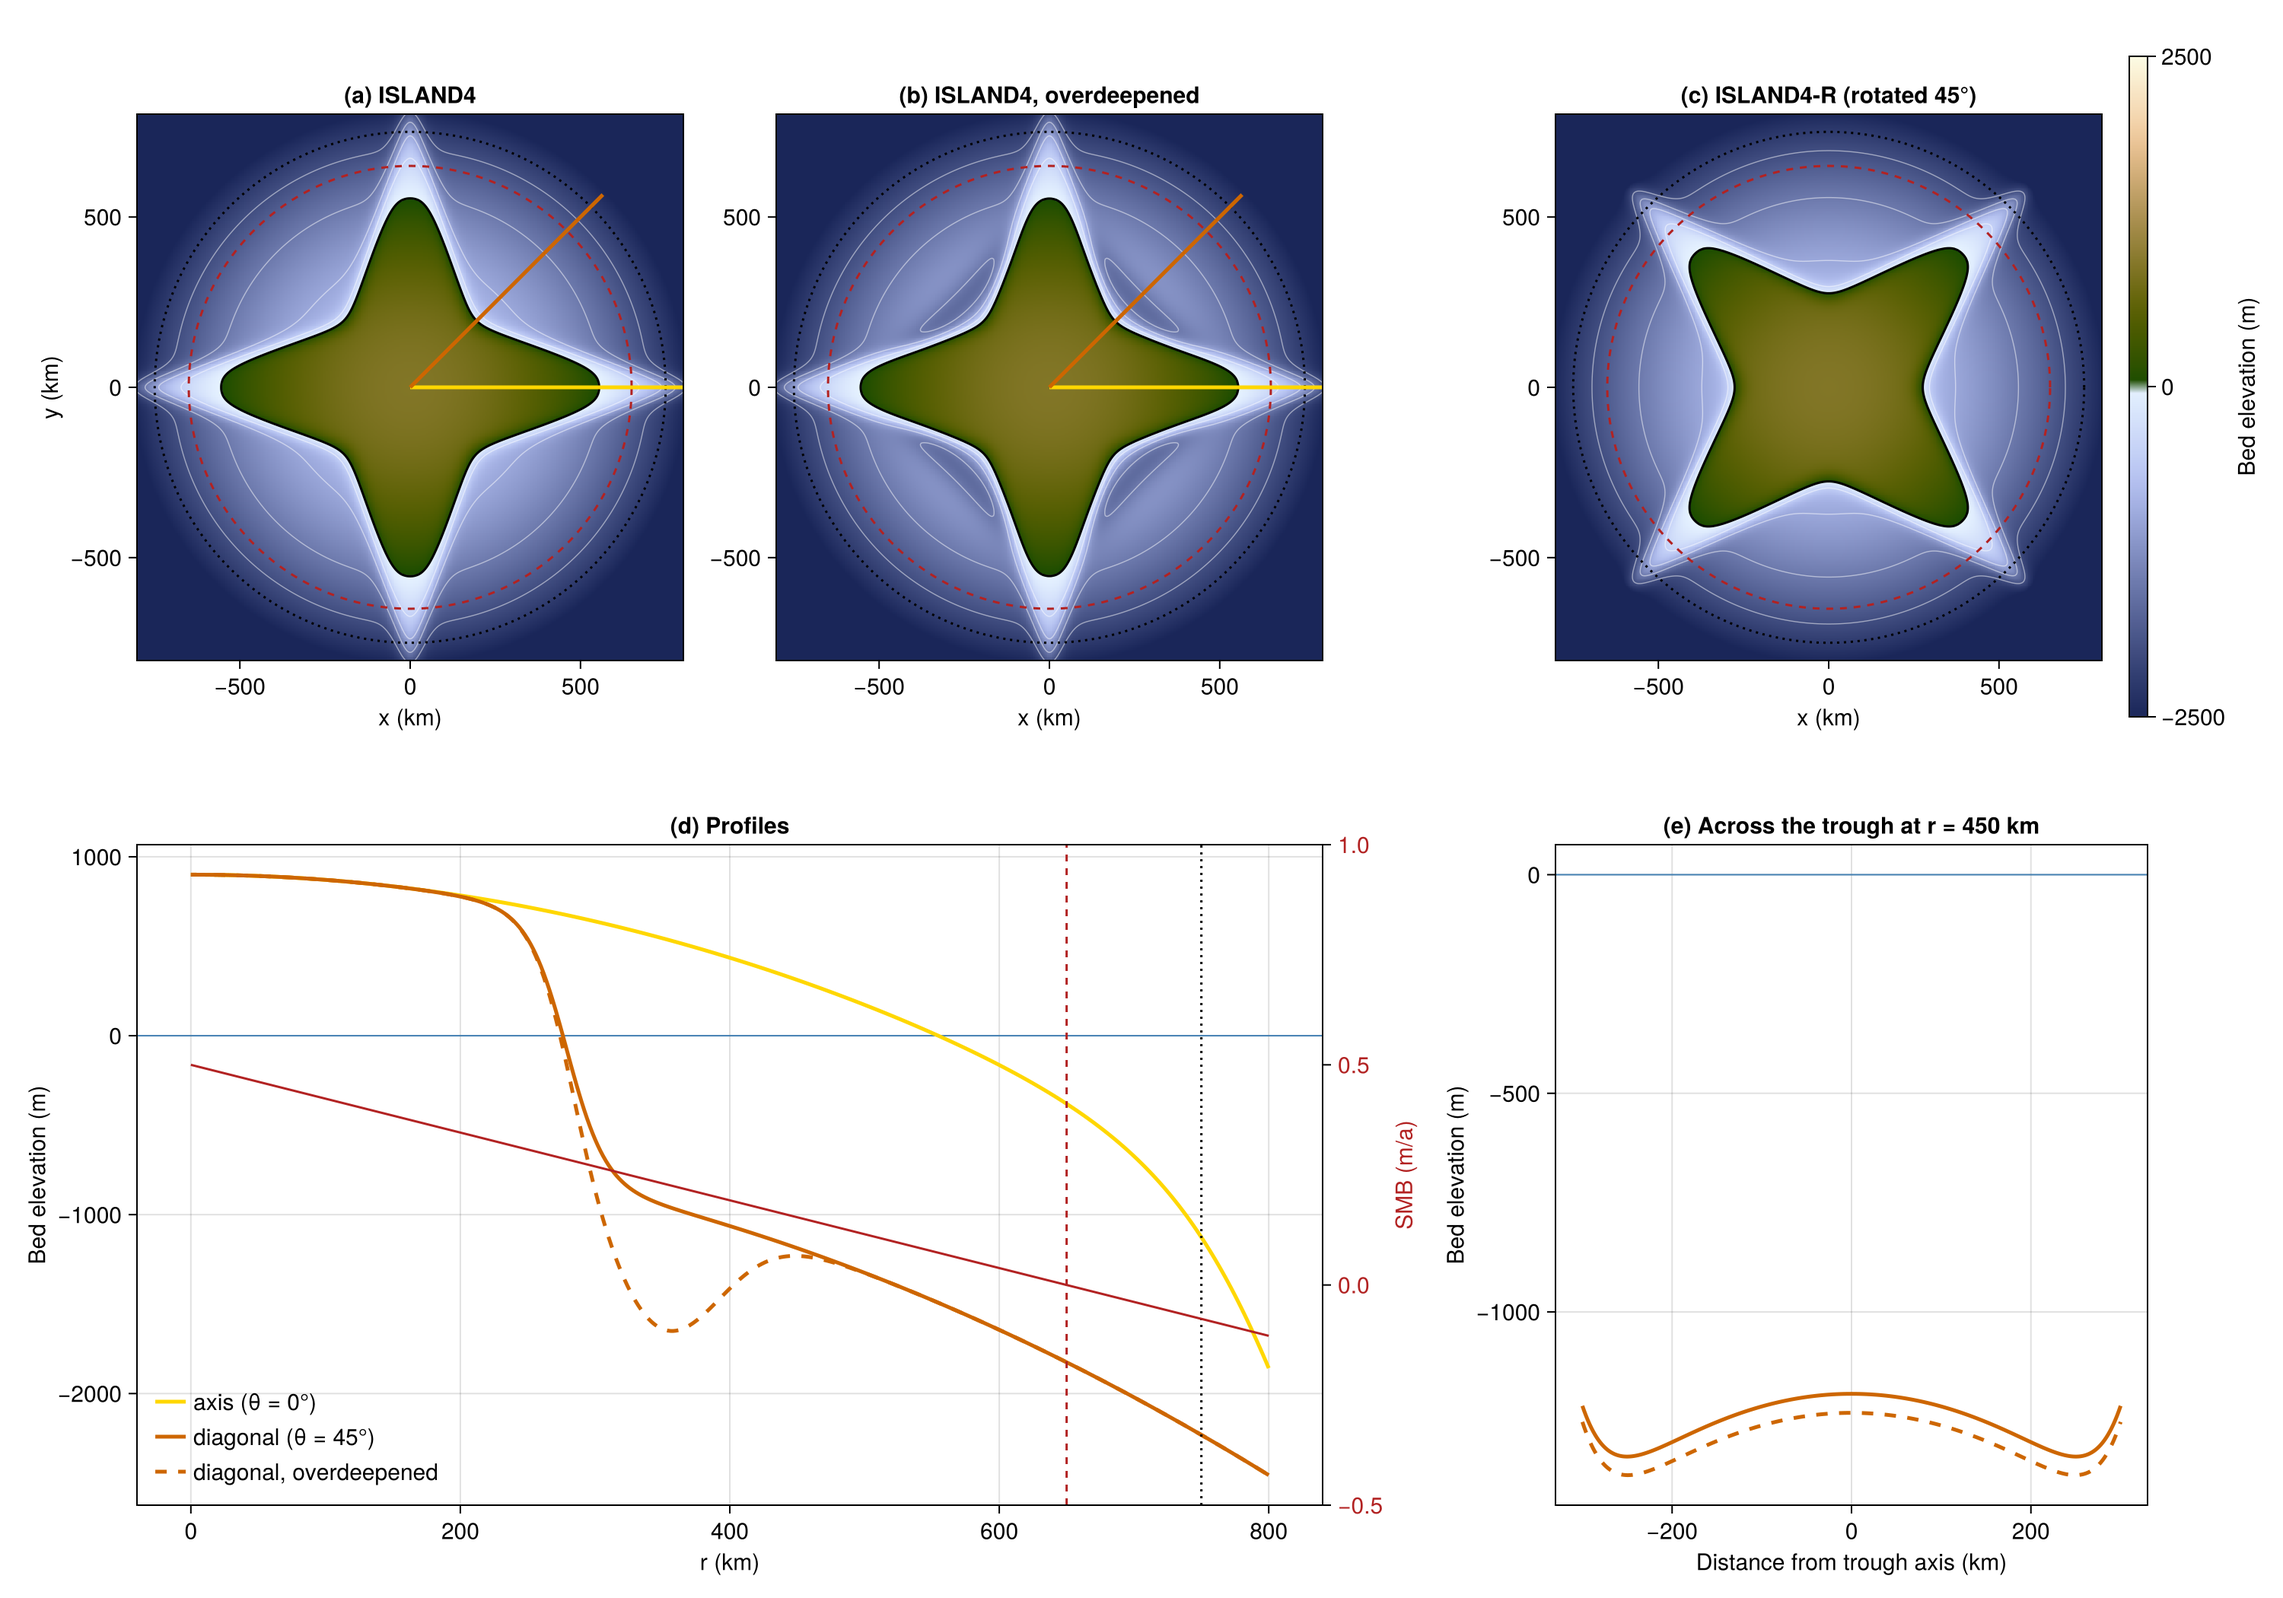
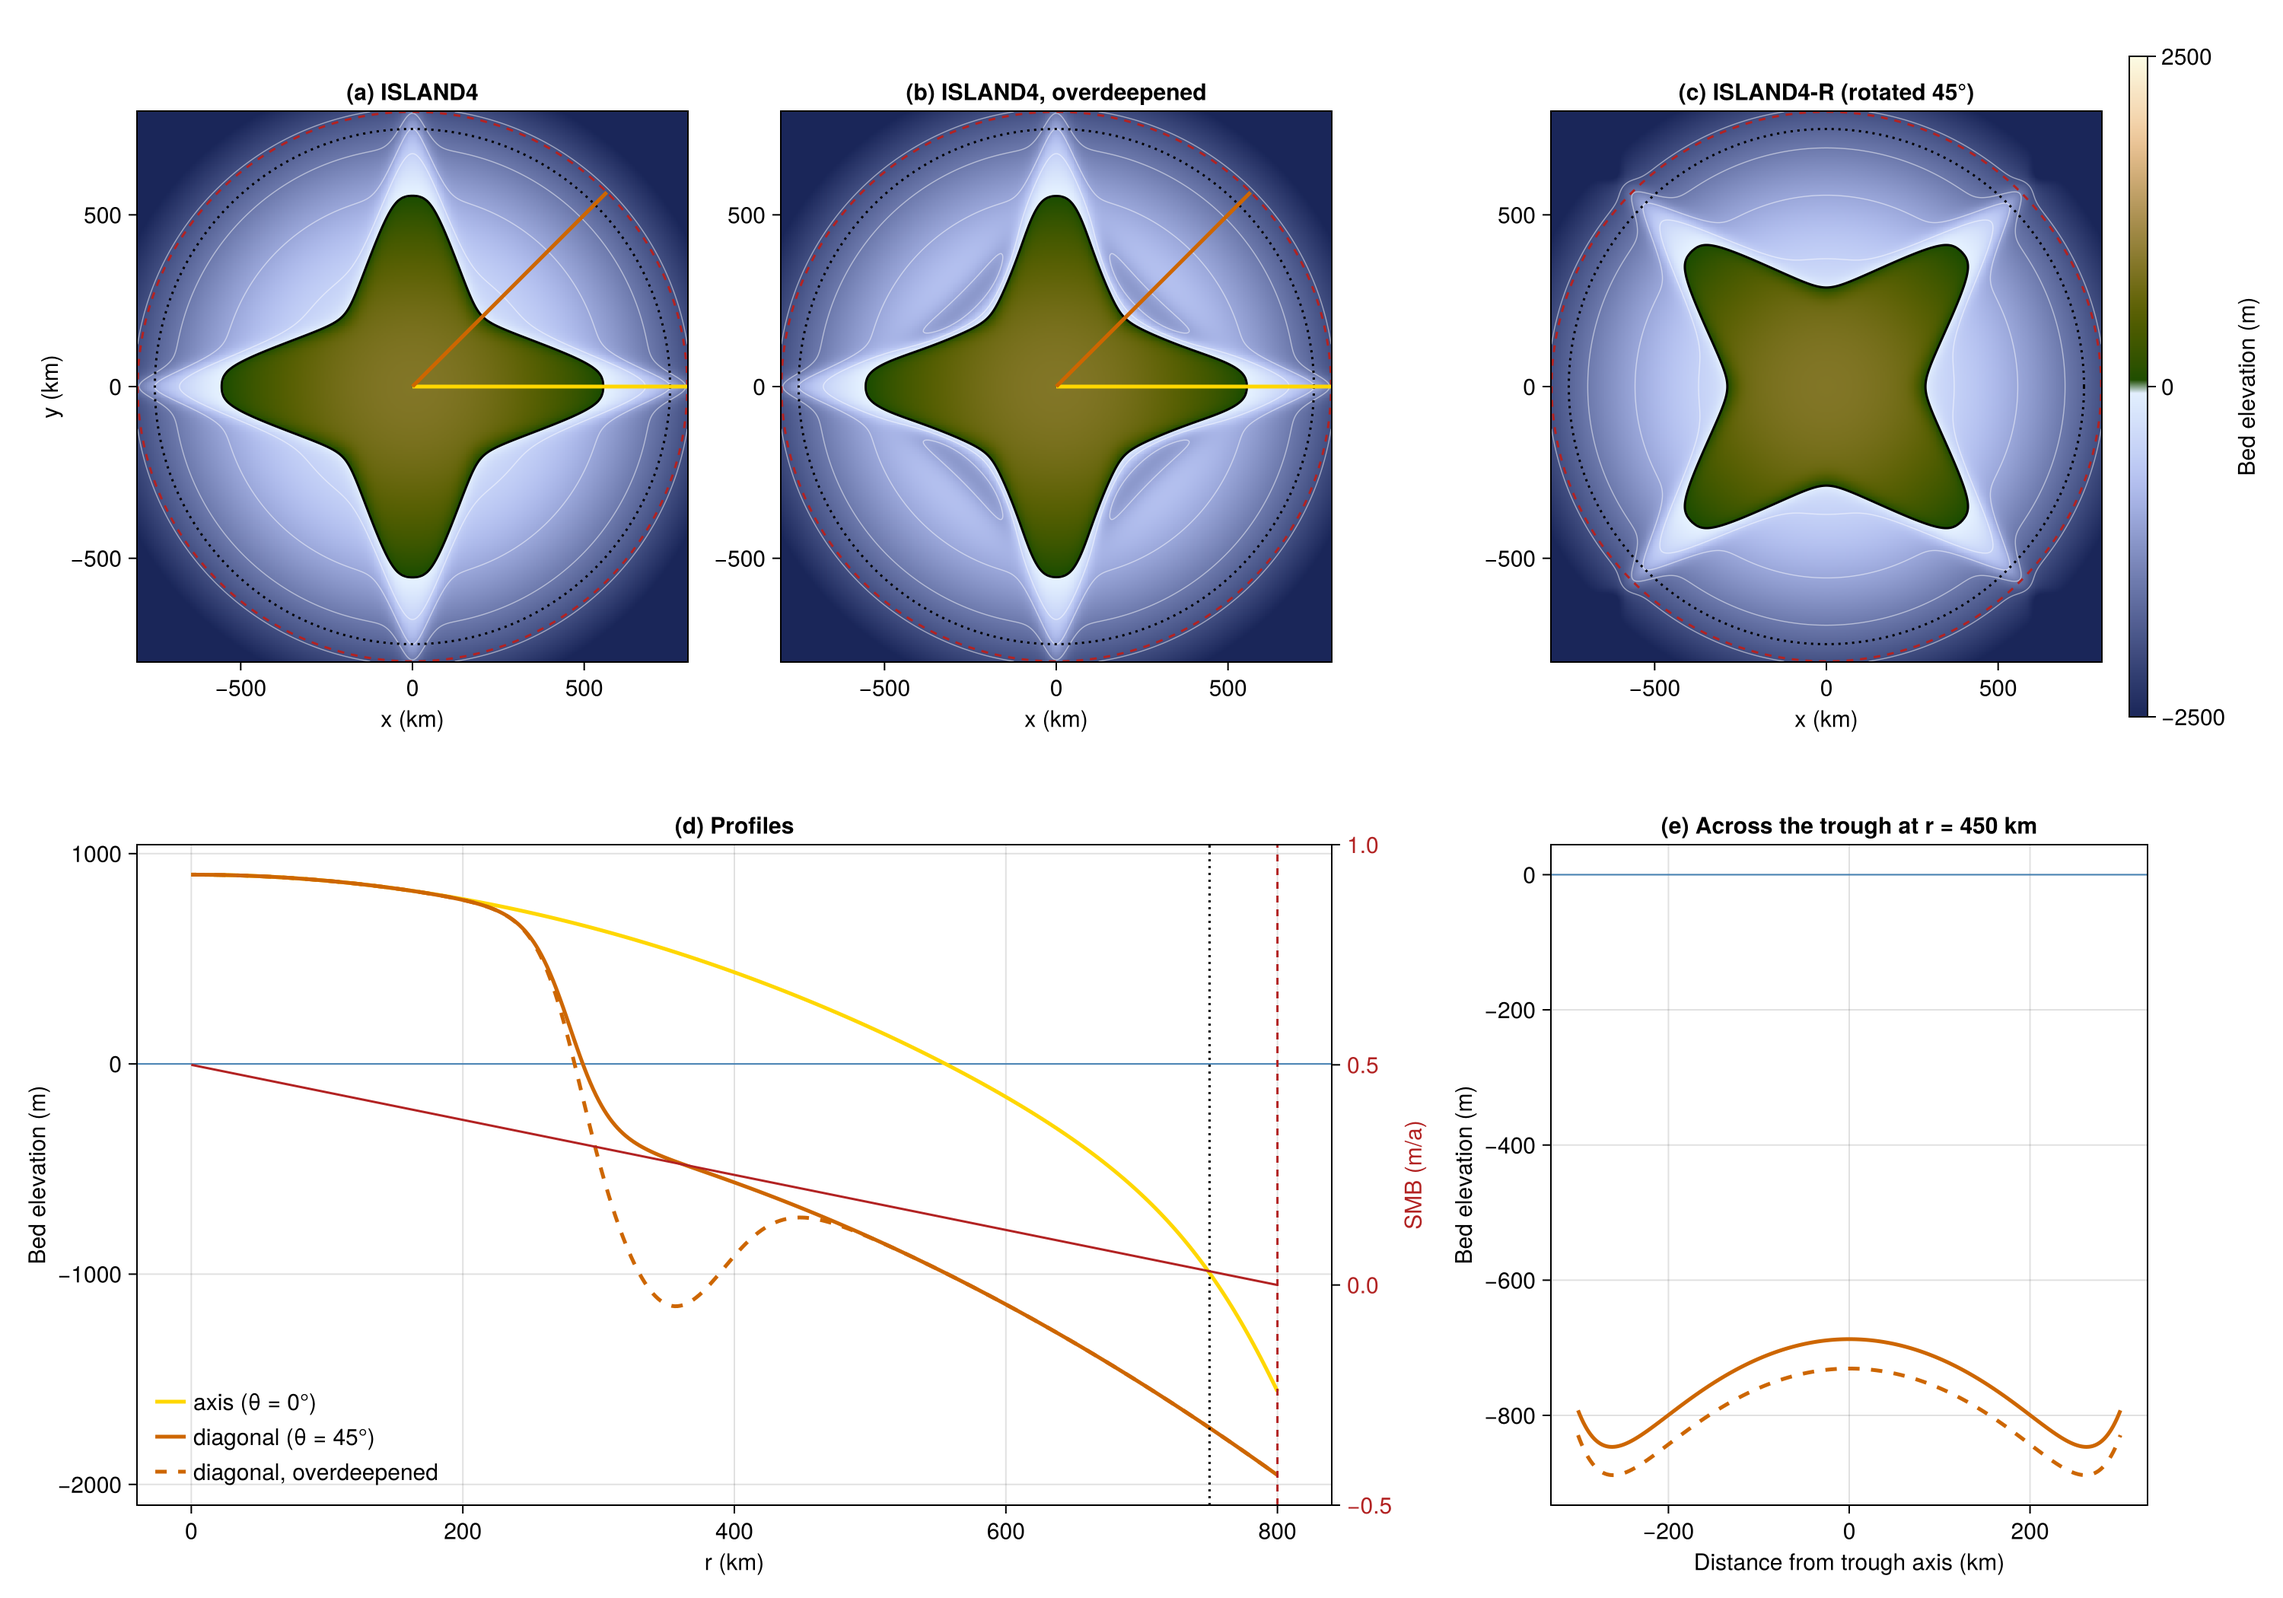
ISLAND4: D0 1500 -> 1000 m, r_ela 650 -> 800 km (marine-grounded trough ice); protocol + figure

diff --git a/docs/dev/benchmark-protocol/index.md b/docs/dev/benchmark-protocol/index.md
@@ -125,12 +125,12 @@ where (ξ_k, η_k) are the coordinates along and across the k-th diagonal, and T
 | r_h | 250 km | Radius of the trough head |
 | α | 120° | Opening angle of the troughs |
 | ℓ | 50 km | Width of the trough walls and head |
-| D_0 | 1500 m | Trough depth below the base profile |
+| D_0 | 1000 m | Trough depth below the base profile |
 | B_od | 0 or 700 m | Depth of the overdeepening (0: off) |
 | r_od | 350 km | Radius of the deepest point of the overdeepening |
 | w_od | 60 km | Half-width of the overdeepening |
 
-The island forms a four-pointed star (Fig. 1a). The coast reaches r ≈ 556 km along the axes and r ≈ 278 km along the diagonals. Ice in the troughs grounds below sea level and feeds the shelves. With the control forcing, the ice also grounds beyond the coast of the peninsulas, so a continuous shelf surrounds the island out to r_lim. Land-terminating margins are therefore tested in ISLAND4-L (B1). The wide opening angle gives smooth, concave coastlines, so that the geometry does not favor the onset of instabilities. With B_od = 0, the trough beds deepen monotonically seaward, so the steady state is unique, which a regression test needs. Setting B_od > 0 adds an overdeepening with a retrograde bed between r ≈ 360 and 448 km (Fig. 1b, d), which tests marine ice-sheet instability. A single parameter thus switches the instability test on and off.
+The island forms a four-pointed star (Fig. 1a). The coast reaches r ≈ 556 km along the axes and r ≈ 290 km along the diagonals. Ice in the troughs grounds below sea level and feeds the shelves. With the control forcing, the ice also grounds beyond the coast of the peninsulas, so a continuous shelf surrounds the island out to r_lim. Land-terminating margins are therefore tested in ISLAND4-L (B1). The wide opening angle gives smooth, concave coastlines, so that the geometry does not favor the onset of instabilities. With B_od = 0, the trough beds deepen monotonically seaward, so the steady state is unique, which a regression test needs. Setting B_od > 0 adds an overdeepening with a retrograde bed between r ≈ 360 and 448 km (Fig. 1b, d), which tests marine ice-sheet instability. A single parameter thus switches the instability test on and off.
 
 Rotating the troughs by 45° (ISLAND4-R) places them along the grid axes (Fig. 1c). The base profile and the forcing are radial, so ISLAND4-R has the same solution as ISLAND4 in the continuum, rotated by 45°. Differences between the two runs measure the dependence of the discrete solution on grid orientation.
 
@@ -140,7 +140,7 @@ Rotating the troughs by 45° (ISLAND4-R) places them along the grid axes (Fig. 1
 
 The forcing is radial or depends on the local state only, so it preserves the D4 symmetry. Fixed fields are generated in Julia with the geometry. Forcing that depends on the evolving ice geometry is computed during the run by a Fortran function in the driver. Each online function has a Julia counterpart, so that the forcing written by the model can be checked against the specification.
 
-- **Surface mass balance (fixed).** SMB(r) = SMB_0 (1 − r/r_ela), with SMB_0 = 0.5 m a⁻¹ and r_ela = 650 km (450 km for ISLAND4-L). For a linear profile, the net SMB of a disc of radius R vanishes at R = 1.5 r_ela. With r_ela = 650 km, this radius lies beyond r_lim, so the marine margins are set by melt and calving, and the SMB on the shelves stays between about −0.1 and +0.1 m a⁻¹. ISLAND4-L keeps r_ela = 450 km, since its land margin needs ablation inside r_lim. We chose an SMB that does not depend on surface elevation, which avoids the elevation feedback and multiple steady states.
+- **Surface mass balance (fixed).** SMB(r) = SMB_0 (1 − r/r_ela), with SMB_0 = 0.5 m a⁻¹ and r_ela = 800 km (450 km for ISLAND4-L). Since r_ela lies beyond r_lim, the SMB is positive everywhere inside r_lim (0.03 m a⁻¹ at r_lim), and the marine margins are set by melt and calving. ISLAND4-L keeps r_ela = 450 km, since its land margin needs ablation inside r_lim. We chose an SMB that does not depend on surface elevation, which avoids the elevation feedback and multiple steady states.
 - **Surface temperature (online).** T_srf = T_sl − Γ z_s, with T_sl = −10 °C and Γ = 8 K km⁻¹. The temperature follows the evolving surface, which keeps it consistent with the ice geometry. Its feedback on the dynamics acts through the thermodynamics only and is weak.
 - **Geothermal heat flux (fixed).** Q_geo = 50 mW m⁻², uniform.
 - **Sub-shelf melt (online).** The MISMIP+ Ice1 parameterization (Asay-Davis et al., 2016), m = Ω tanh(H_c/H_c0) max(z_0 − z_d, 0), with Ω = 0.01 a⁻¹, H_c0 = 75 m and z_0 = −200 m, where z_d is the depth of the ice base and H_c the water-column thickness. We chose it because it is a community standard, and the tanh term reduces the melt smoothly toward the grounding line. The MISMIP+ values (Ω = 0.2 a⁻¹, z_0 = −100 m) are sized for the ice flux of MISMIP+, and on ISLAND4 they remove about 30 times more ice than the island supplies (about 3e10 m³ a⁻¹ per trough with r_ela = 450 km). The values used here give no melt below shelves thinner than about 225 m, about 1.5 m a⁻¹ below 400 m of ice and about 7 m a⁻¹ at a grounding line 1 km deep.
@@ -148,6 +148,8 @@ The forcing is radial or depends on the local state only, so it preserves the D4
 - **Friction.** The friction law of the default parameter file with spatially uniform parameters.
 
 The values of r_ela, Ω and z_0 come from a sweep of 5-kyr runs at 32 km (2026-10-05). With the original values (r_ela = 450 km and the MISMIP+ melt), the shelves were about 50–65 m thick on average and ended inside r_lim. With the values above, the shelves reach r_lim, with a mean thickness of about 150 m and about 90 m at the front. Weaker melt or more accumulation increases this only slightly. The shelf thickness is limited by the geometry: beyond the coast the shelves are unconfined and spread under their own weight (strain rate ∝ H^n), so they thin to a few hundred meters within one or two cells of the grounding line. Raising B_l to −840 m extends the peninsulas to about 660 km, but the troughs then form 90° sectors between narrow spurs and give little lateral support (mean shelf thickness about 165 m, about 110 m at the front). We therefore kept B_l = −2000 m. Thin unconfined shelves are the physical solution of this geometry, and they still test the floating momentum balance, calving at r_lim and sub-shelf melt.
+
+The first C0 spin-ups (50 kyr, 32/16/8 km, D_0 = 1500 m, r_ela = 650 km) converged with resolution to a grounding line at the coast everywhere, so the troughs held no grounded ice below sea level. The marine grounded ice at 32 and 16 km was a resolution artifact. A sweep at 16 km with `uz_method = 4` (50 kyr, 2026-10-07) showed that the trough depth controls the grounding line; B_l changes the trough floor by only about 100 m. With D_0 = 1000 m the grounding line rests on the trough floor at r ≈ 440–465 km, with about 0.3e6 km² of grounded ice below sea level, compared with r ≈ 305 km and 0.1e6 km² for D_0 = 1500 m. With D_0 = 700 m it reaches the axis coast, and one run had not reached a steady state after 50 kyr. Raising r_ela from 650 to 800 km moves the grounding line by about 25 km and thickens the shelves by about 25 m. Lowering z_0 from −200 to −400 m changes the shelf thickness by about 10 m. We chose D_0 = 1000 m and r_ela = 800 km. The grounding line then lies just seaward of the retrograde section of the overdeepened variant (r ≈ 358–448 km).
 
 ## Tier B: one margin type at a time
 
@@ -176,7 +178,7 @@ Tier C runs the production setup on ISLAND4. It is the main target of the protoc
 - **C2 Perturbations.** 500 yr from the C0 restart.
   - C2a Ocean: Ω × 2.
   - C2b Shelf removal: all floating ice removed at each time step (as in ABUMIP).
-  - C2c Surface: SMB − 0.1 m a⁻¹ everywhere (r_ela moves to 520 km).
+  - C2c Surface: SMB − 0.1 m a⁻¹ everywhere (r_ela moves to 640 km).
   - C2d Reversibility (optional): C2a followed by 500 yr of control forcing.
 
   The references are resolution convergence (32, 16, 8 km) and a regression envelope against the previous model version. The run length of 500 yr will be shortened if the signals become clear earlier.

diff --git a/docs/dev/benchmark-protocol/status-2026-10-07.md b/docs/dev/benchmark-protocol/status-2026-10-07.md
@@ -52,6 +52,8 @@ runme -s -r -q shared -w 24:00:00 -e bench -n par/yelmo_bench_ISLAND4.nml -o out
 
 Recommended: option 2.
 
+Decided (2026-10-07): option 2. Sweep at 16 km, method 4 (albedo `output/c0sweep`, D0 × r_ela × z0): D0 controls the grounding line, Bl and z0 are weak. New defaults D0 = 1000 m, r_ela = 800 km (grounding line on the trough floor at r ≈ 465 km). Details in index.md.
+
 ## Other open items
 
 - Merge `c0-spinup` to dev; delete `strn-wterms`.
